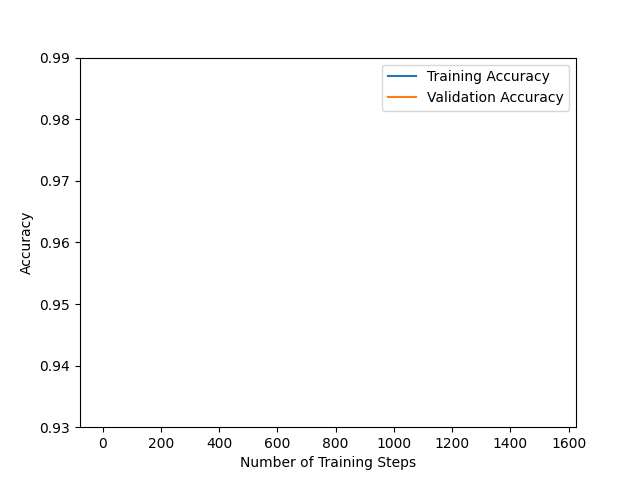
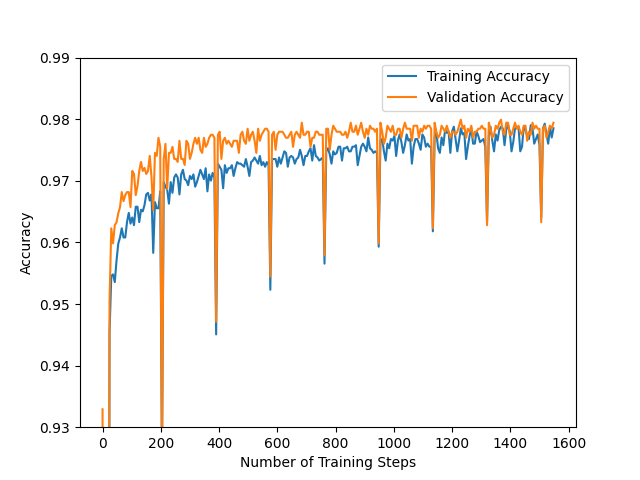
implement 2c (also looks a little bit weird, but aligns with results from 2b)

Changed region(s): [[0.1562, 0.25, 0.875, 0.9062]]

diff --git a/assignment1/task2.py b/assignment1/task2.py
@@ -17,9 +17,10 @@ def calculate_accuracy(X: np.ndarray, targets: np.ndarray, model: BinaryModel) -
     """
     
     predictions = model.forward(X)
-    correct_predictions = np.where((abs(targets - predictions)) >= 0.5)
+    predictions_rounded = (predictions >= 0.5).astype(int)
+    correct_predictions = (targets == predictions_rounded).sum() # "The prediction is determined as 1 if ŷ ≥ 0.5 else 0"
 
-    accuracy = len(correct_predictions) / len(predictions)
+    accuracy = correct_predictions / len(predictions)
     return accuracy
 
 
